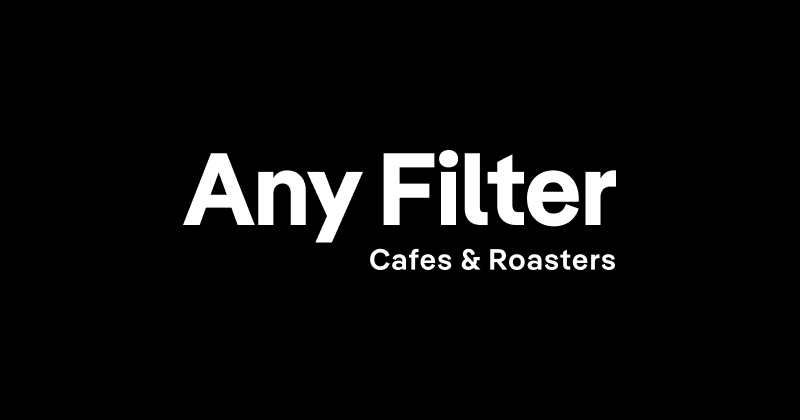
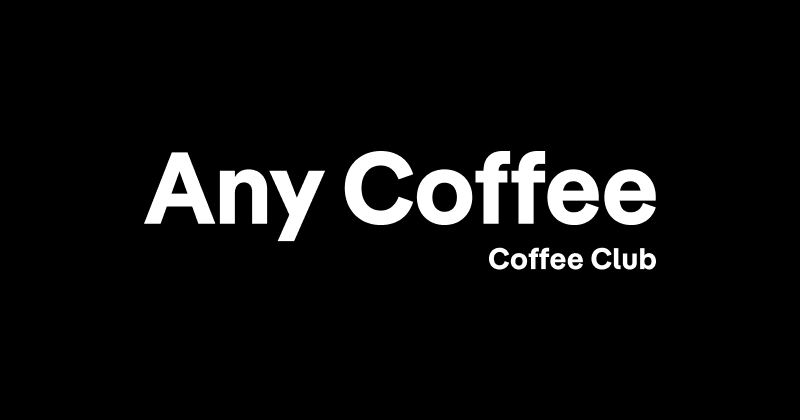
Update website

Changed region(s): [[0.1562, 0.3405, 0.8438, 0.5881], [0.4375, 0.5881, 0.8438, 0.65]]

diff --git a/index.html b/index.html
@@ -3,22 +3,22 @@
 <head>
 	<meta charset="utf-8">
 	<meta name="viewport" content="width=device-width" />
-	<title>Any Filter</title>
+	<title>Any Coffee</title>
 	<meta name="description" content="Coffee Club, coffee shops, and roasters." />
 	<link rel="stylesheet" type="text/css" href="assets/style.css">
 	<link rel="icon" type="image/png" href="assets/images/favicon.png">
 
-	<meta property="og:title" content="Any Filter" />
+	<meta property="og:title" content="Any Coffee" />
 	<meta property="og:description" content="Coffee Club, coffee shops, and roasters." />
 	<meta property="og:image" content="https://anyfilter.co/assets/images/og.png" />
 	<meta name="twitter:card" content="summary_large_image" />
-	<meta name="twitter:title" content="Any Filter" />
+	<meta name="twitter:title" content="Any Coffee" />
 	<meta name="twitter:description" content="CCoffee Club, coffee shops, and roasters." />
 	<meta name="twitter:image" content="https://anyfilter.co/assets/images/og.png"
 </head>
 <body>
 	<header>
-		<h1>Any Filter</h1>
+		<h1>Any Coffee</h1>
 		<h2>Coffee Club ☕</h2>
 	</header>
 </body>

diff --git a/README.md b/README.md
@@ -1,1 +1,1 @@
-# Any Filter
+# Any Coffee
